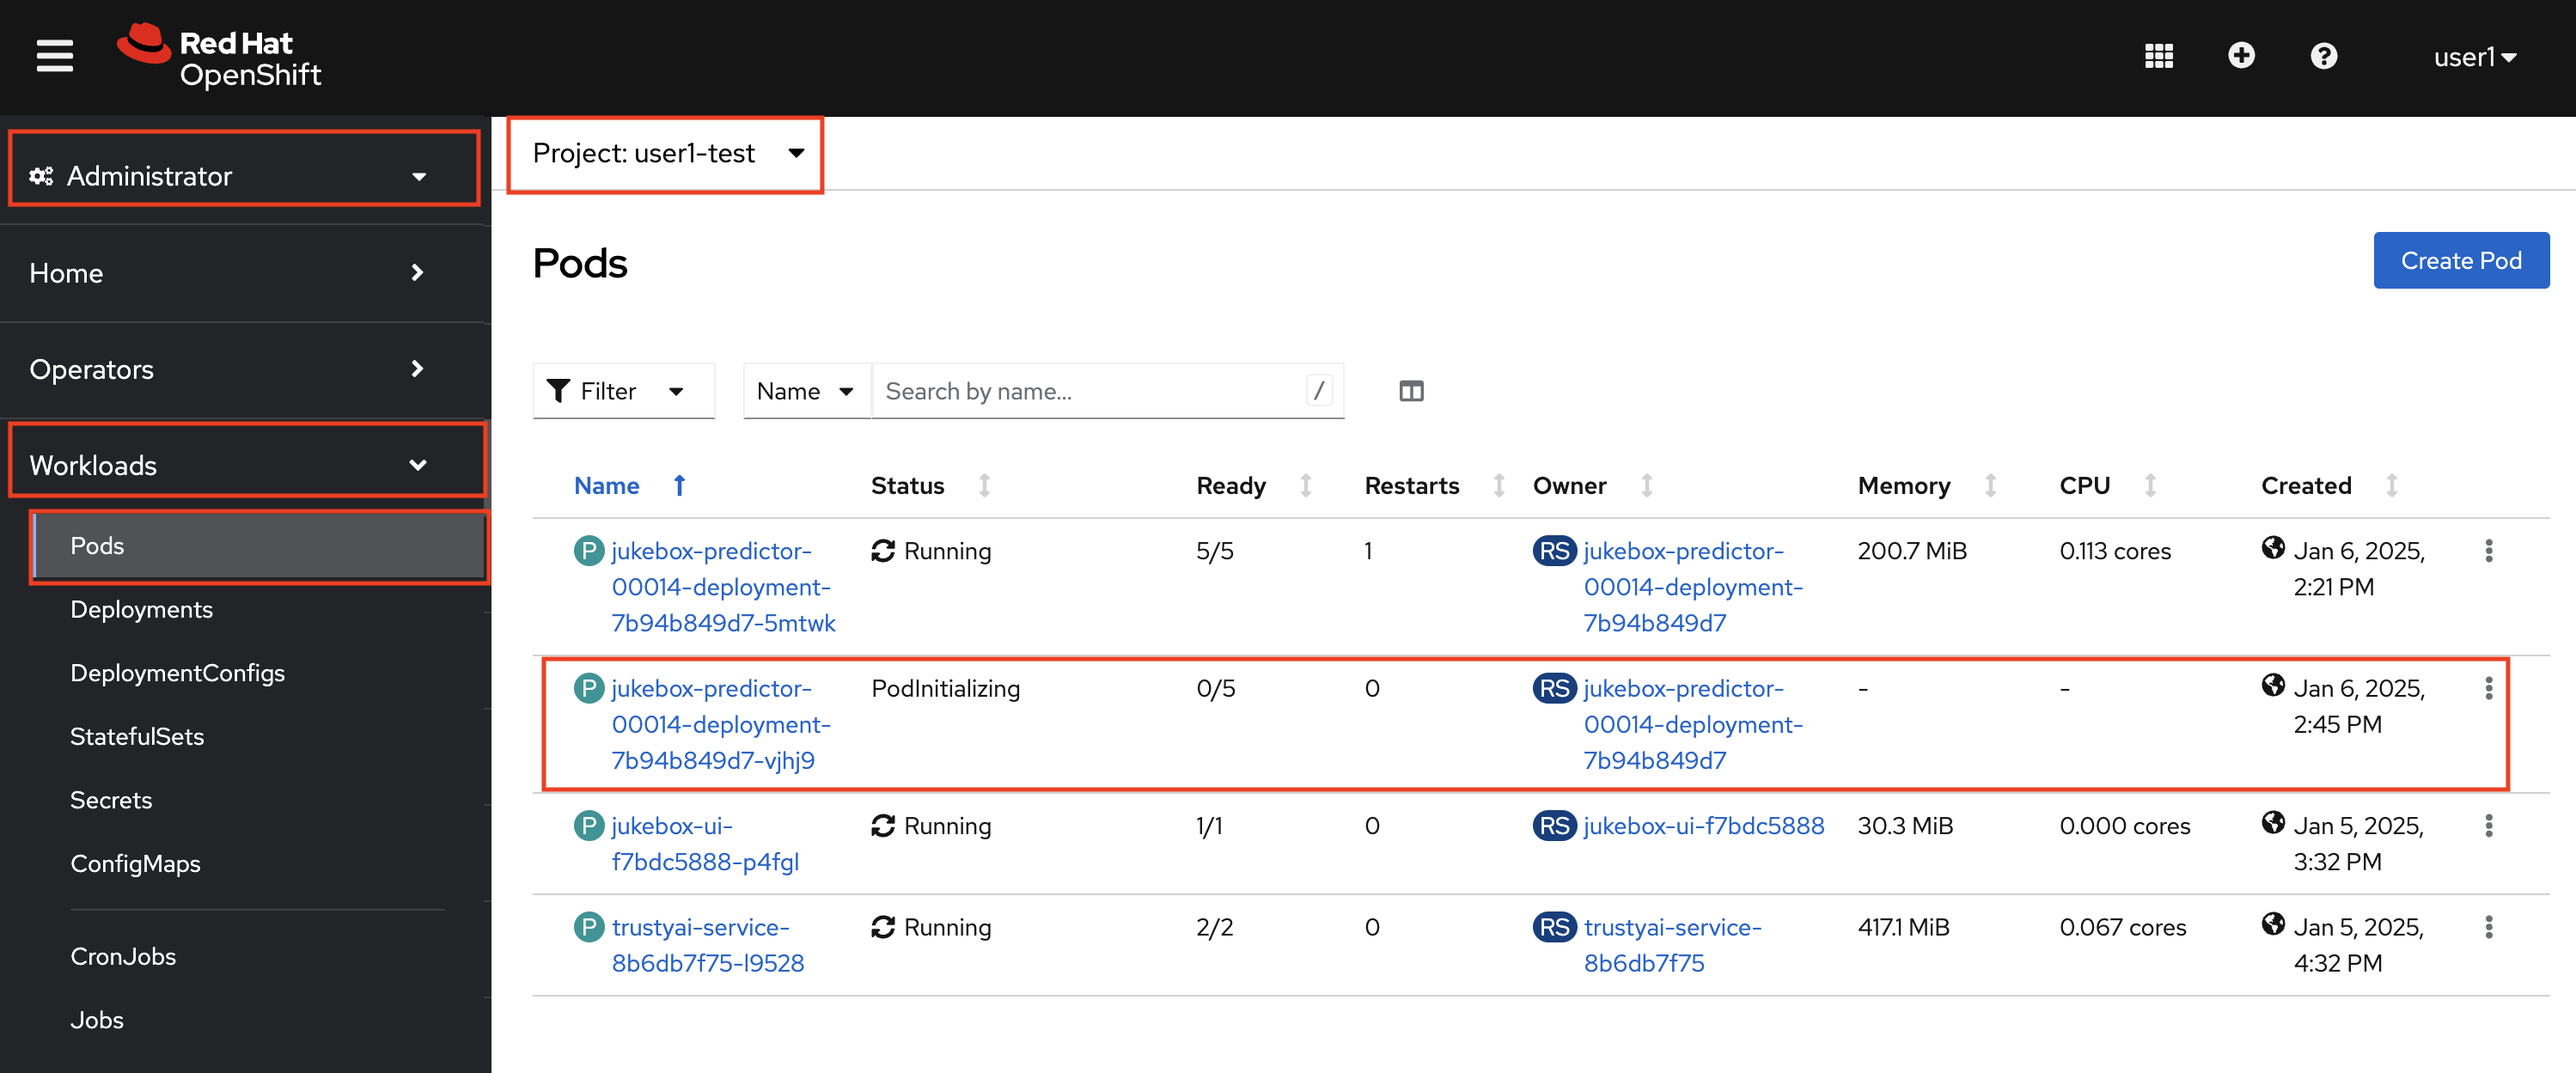
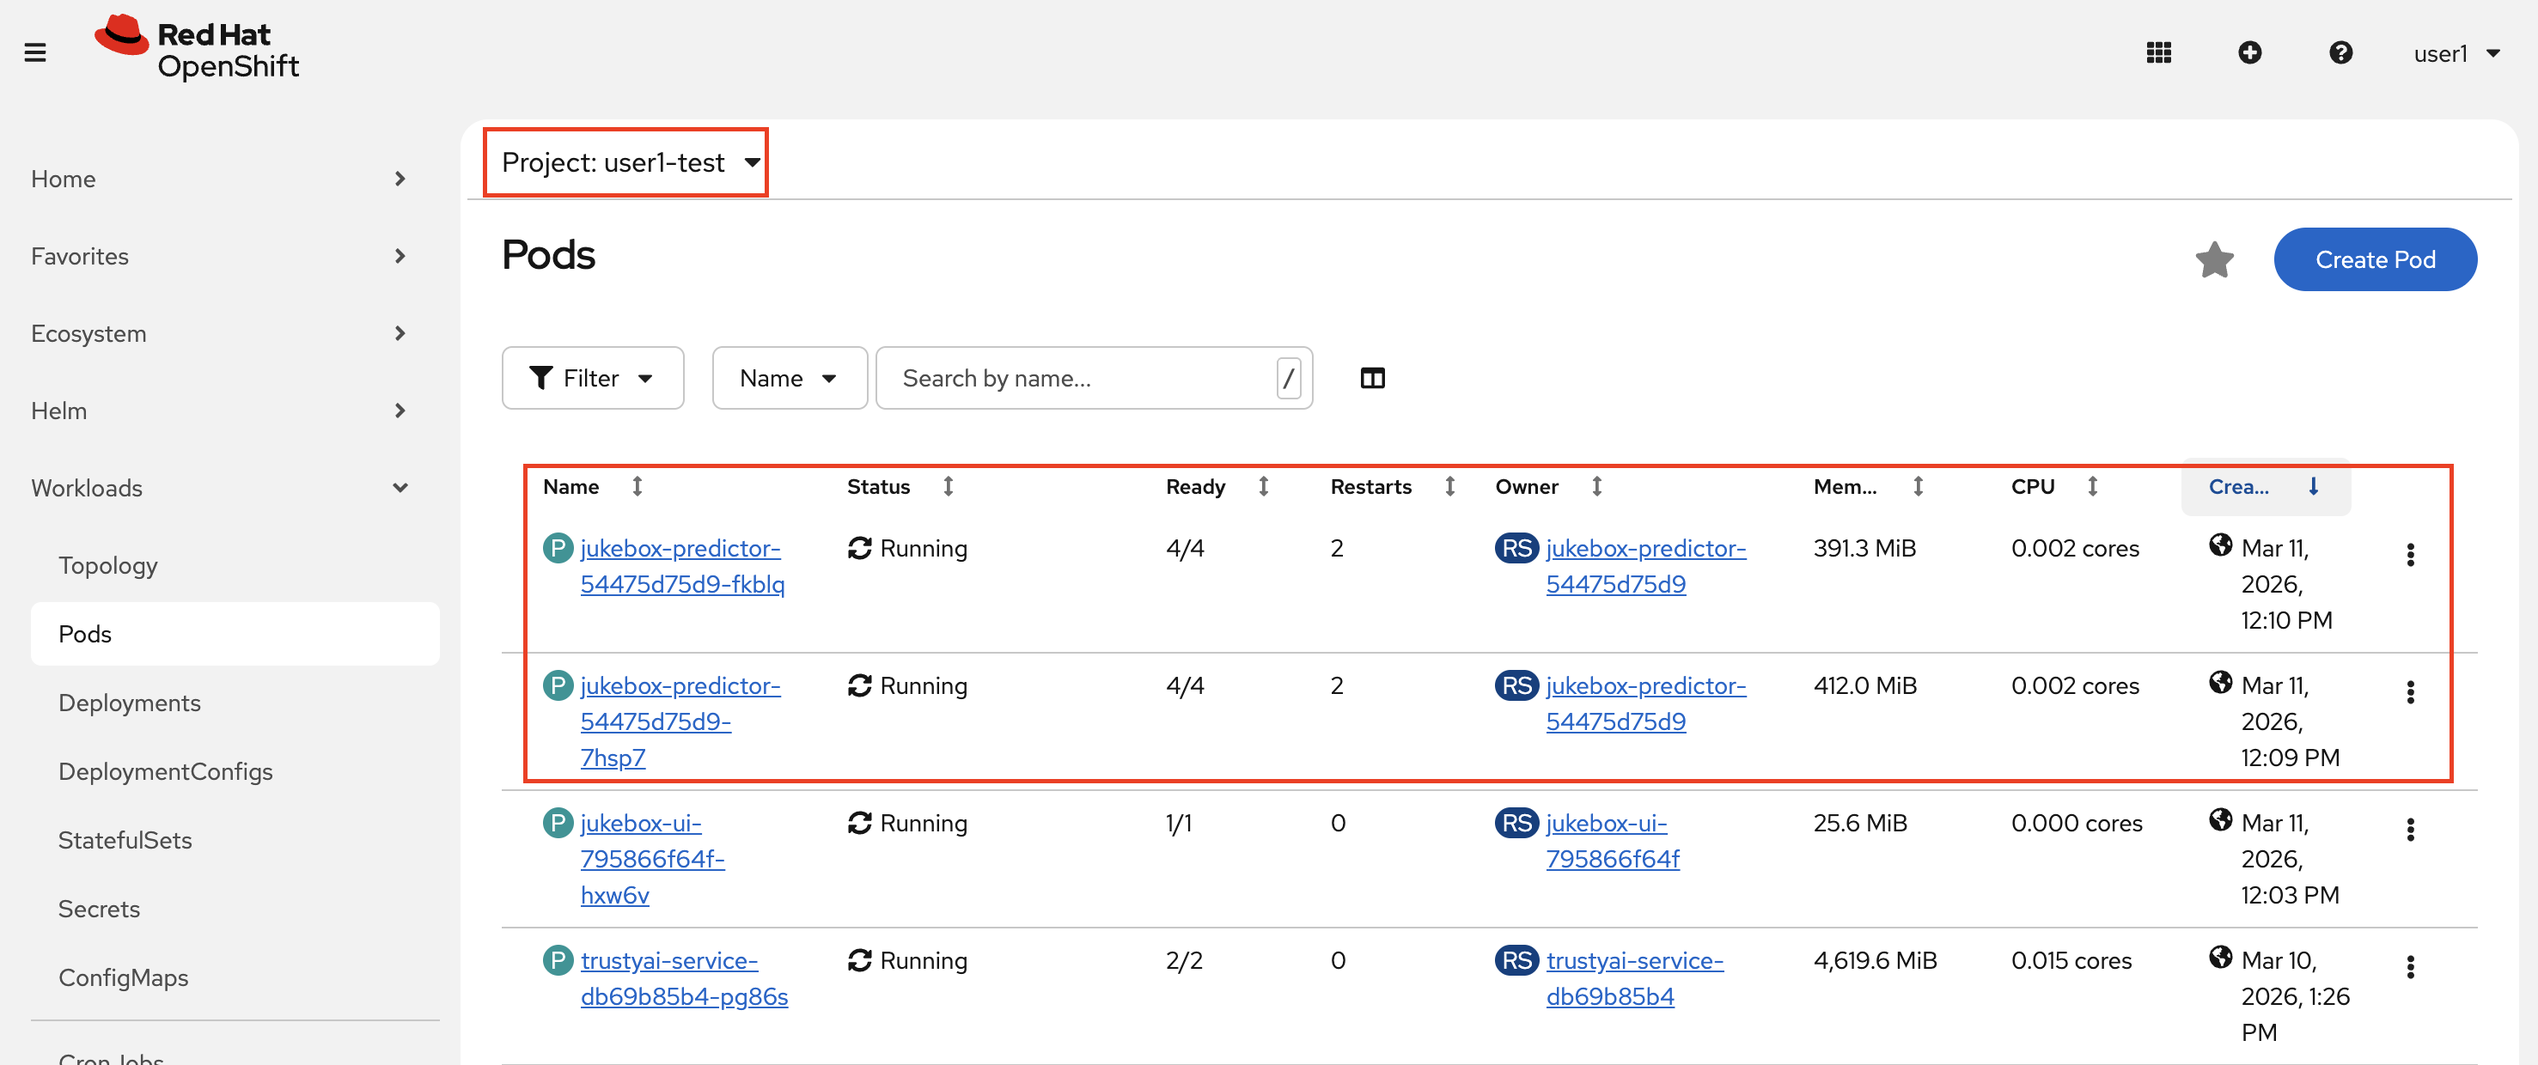
📍pining to 3.3

diff --git a/docs/6-the-headliner/2-autoscaling.md b/docs/6-the-headliner/2-autoscaling.md
@@ -2,9 +2,11 @@
 
 Autoscaling ensures optimal performance during high-demand periods by provisioning additional resources while minimizing costs by scaling down during low activity. This is important for us because Machine Learning workloads, such as model training and inference, often experience fluctuating resource requirements. 
 
-Luckily for us, autoscaling based on the incoming request load is quite easy with KServe and OpenShift.
+Luckily for us, autoscaling based on the resource consumption or incoming request load is quite easy with KServe and OpenShift.
 
-1. Let's enable autoscaling in `InferenceService` for test environment by updating `mlops-gitops/model-deployments/test/jukebox/config.yaml` on `<USER_NAME>-mlops-toolings` workbench (code-server). Add `autoscaling: true` to the config file.
+## Simple Autoscaling with HPA (Horizontal Pod Autoscaling)
+
+1. OpenShift by default supports autoscaling based on CPU and Memory consumption. Let's first experience that by enabling autoscaling in `InferenceService` for test environment. Update `mlops-gitops/model-deployments/test/jukebox/config.yaml` on `<USER_NAME>-mlops-toolings` workbench (code-server). Add `autoscaling: true` to the config file.
 
     ```bash
     ---
@@ -26,11 +28,17 @@ Luckily for us, autoscaling based on the incoming request load is quite easy wit
     metadata:
     annotations:
       openshift.io/display-name: jukebox
-      serving.knative.openshift.io/enablePassthrough: 'true'
-      sidecar.istio.io/inject: 'true'
-      sidecar.istio.io/rewriteAppHTTPProbers: 'true'
-      autoscaling.knative.dev/target: "1" ### 👈 this does the magic 🔮
+      security.opendatahub.io/enable-auth: 'false'
+      serving.kserve.io/deploymentMode: RawDeployment
+      serving.kserve.io/autoscalerClass: hpa ### 👈 this does the magic 🔮
+    ...
+    spec: ### 👈 and this 🔮
+      predictor:
+        scaleTarget: 5
+        scaleMetric: memory
     </code></pre></div>
+
+    _Just to experience the autoscaling, we are setting a very low threshold for memory to kick off the autoscaling._
 
 2. Push the changes:
 
@@ -52,6 +60,82 @@ Luckily for us, autoscaling based on the incoming request load is quite easy wit
 
     ![autoscaling-1.png](./images/autoscaling-1.png)
 
-6. Since this is *auto*scaling, the extra resources will be automatically removed once they are no longer needed—that is, when there are no concurrent requests. After a short while, you'll notice that the same pod will begin terminating.
+6. Since this is *auto*scaling, the extra resources will be automatically removed once they are no longer needed, after a short while, you'll notice that the same pod will begin terminating. But let's not wait for it and go for a more advance scaling!
 
-    ![autoscaling-2.png](./images/autoscaling-2.png)
+## Autoscaling with KEDA (Kubernetes Event-driven Autoscaling)
+
+CPU and memory are good metrics to scale but they are rarely a good indicator of the load, especially in Machine Learning workload. You'd like to scale based on the incoming load such as the number of request you are getting in a given period. 
+
+Therefore we are introducing another tool called KEDA. KEDA will help us to autoscale based on the metrics that are exposed by the model runtime, or Jukebox UI, or any other custom metrics we may set. 
+
+In this case, we are going to look at the number of requests the model is getting and will be using `ovms_current_requests` metrics.
+
+
+1. Update `mlops-gitops/model-deployments/test/jukebox/config.yaml` on `<USER_NAME>-mlops-toolings` workbench (code-server). Add `keda: true` to the config file.
+
+    ```bash
+    ---
+    chart_path: charts/model-deployment/music-transformer
+    name: jukebox
+    version: 4562a17c17 # 🚩⚠ this value can be different for you
+    image_repository: image-registry.openshift-image-registry.svc:5000
+    image_namespace: <USER_NAME>-test
+    autoscaling: true 
+    keda: true # 👈 add this
+    ```
+
+    This will update the `InferenceService` by updating the autoscale annotation, and trigger a new model deployment with KEDA autoscaling capability! 
+
+    <div class="highlight" style="background: #f7f7f7">
+    <pre><code class="language-yaml">
+    ---
+    apiVersion: serving.kserve.io/v1beta1
+    kind: InferenceService
+    metadata:
+    annotations:
+      openshift.io/display-name: jukebox
+      security.opendatahub.io/enable-auth: 'false'
+      serving.kserve.io/deploymentMode: RawDeployment
+      serving.kserve.io/autoscalerClass: keda ### 👈 this does the magic 🔮
+    ...
+    spec: ### 👈 and this 🔮
+      predictor:
+        autoScaling:
+          metrics:
+            - external:
+                authenticationRef:
+                authModes: bearer
+                authenticationRef:
+                    name: inference-prometheus-auth
+                metric:
+                backend: prometheus
+                query: 'ovms_current_requests{namespace="<USER_NAME>-test", name="jukebox", version="1"}'
+                serverAddress: 'https://thanos-querier.openshift-monitoring.svc.cluster.local:9091'
+                target:
+                type: Value
+                value: '1'
+            type: External
+    </code></pre></div>
+
+_Again, just for the simplicty, we trigger the autoscaling when there are more than one request concurrently._
+
+2. Push the changes:
+
+    ```bash
+    cd /opt/app-root/src/mlops-gitops
+    git pull
+    git add .
+    git commit -m  "🎚 UPDATE - KEDA enabled 🎚"
+    git push
+    ```
+3. Let's delete the HPA that previous exercise created to not collide the autoscaling.
+
+  ```bash
+    oc delete hpa jukebox-predictor -n <USER_NAME>-test
+  ```
+
+4. Once again, wait for the model to be redeployed, you can keep track of the pods like before: `oc get po -n <USER_NAME>-test -w` (Ctrl+C to cancel out of it).
+
+5. Let's again use the same load testing tool. G back to your Jupyter Notebook `<USER_NAME>-hitmusic-wb` workbench and go through Notebook `jukebox/6-advanced_deployment/1-test_autoscale.ipynb` once again.  
+
+6. Go to `OpenShift Dashboard` in Administrator view > `<USER_NAME>-test` project > `Workloads` > `Pods` and observe that a new pod is coming up.

diff --git a/docs/6-the-headliner/README.md b/docs/6-the-headliner/README.md
@@ -2,16 +2,16 @@
 >  Techniques to enhance the reliability and scalability of machine learning systems. 
 
 ## 👨🍳 Exercise Intro
-In this exercise, we'll cover pre- and post-processing for data and predictions, explore autoscaling to handle loads, and introduce advanced deployment patterns like canary and blue-green deployments to ensure safe and seamless model rollouts.
+In this exercise, we'll cover pre- and post-processing for data and predictions, explore autoscaling to handle loads.
 
 ## 🖼 Big Picture
 
 ![big-picture-advanced-deployment.jpg](./images/big-picture-advanced-deployment.jpg)
 
 ## 🔮 Learning Outcomes
-- [ ] Shift traffic gradually between two different versions with canary deployment method
-- [ ] Deploy the champion model to production
-- [ ] Mirror the traffic to monitor the new version under live requests
+- [ ] Able to use transformers for pre- and post-processing of data
+- [ ] Autoscale based on resources and incoming requests
 
 ## 🔨 Tools used in this exercise
 * <span style="color:blue;">[KServe](https://kserve.github.io/website/docs/intro)</span> - A model inference platform on top of OpenShift
+* * <span style="color:blue;">[KEDA](https://keda.sh/</span> - Kubernetes Event-driven Autoscaling

diff --git a/docs/_sidebar.md b/docs/_sidebar.md
@@ -28,9 +28,9 @@
 * [6. The Headliner](6-the-headliner/README.md)
   * [🥓 Pre & Post Processing](6-the-headliner/1-pre-post-processing.md)
   * [💸 Autoscaling](6-the-headliner/2-autoscaling.md)
-  * [🦜 Canary Deployments](6-the-headliner/3-canary-deployment.md)
-  * [🐳🍏 Blue Green Deployments](6-the-headliner/4-blue-green-deployment.md)
-  * [👻 Dark Launches](6-the-headliner/5-dark-launches.md)
+  <!-- * [🦜 Canary Deployments](6-the-headliner/3-canary-deployment.md) -->
+  <!-- * [🐳🍏 Blue Green Deployments](6-the-headliner/4-blue-green-deployment.md) -->
+  <!-- * [👻 Dark Launches](6-the-headliner/5-dark-launches.md) -->
 * [7. The Feature Playlist](7-the-feature-playlist/README.md)
   * [🪐 Feast](7-the-feature-playlist/1-feature-store.md)
   * [🎒 Outer Loop Features](7-the-feature-playlist/2-outer-loop-features.md)
